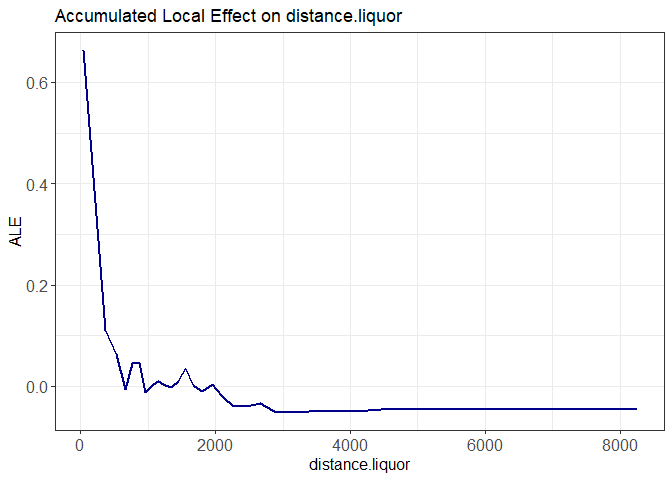
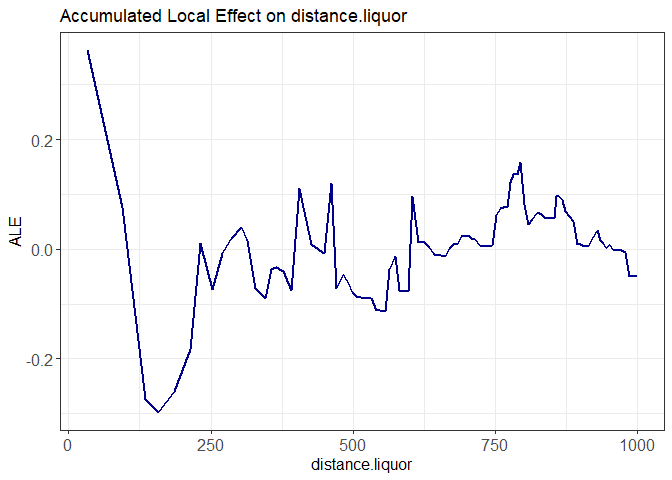
Readme updates

diff --git a/README.md b/README.md
@@ -23,7 +23,7 @@ features are planned for the future, including:
 
 -   ~~Predictive Accuracy Index (PAI) calculation~~
 -   GoogleMaps & OpenStreet Maps integration
--   Grid count and polygon-level predictors
+-   ~~Grid count~~ and polygon-level predictors
 -   Shapely value decomposition
 -   and more…!
 
@@ -207,13 +207,13 @@ head(gbm_fit$model_dataframe)
 #> 21        2177.169     2510.220          3613.967            1994.225
 #> 22        1986.044     2339.894          3511.932            1802.244
 #> 23        1796.853     2174.627          3418.562            1612.213
-#>       gbm.pred                       geometry
-#> 18 0.009015617 POLYGON ((1012120 854990.8,...
-#> 19 0.003779165 POLYGON ((1012320 854990.8,...
-#> 20 0.021006990 POLYGON ((1012520 854990.8,...
-#> 21 0.009862104 POLYGON ((1012720 854990.8,...
-#> 22 0.007123667 POLYGON ((1012920 854990.8,...
-#> 23 0.002528116 POLYGON ((1013120 854990.8,...
+#>        gbm.pred                       geometry
+#> 18 0.0101637170 POLYGON ((1012120 854990.8,...
+#> 19 0.0073781023 POLYGON ((1012320 854990.8,...
+#> 20 0.0050794818 POLYGON ((1012520 854990.8,...
+#> 21 0.0005178818 POLYGON ((1012720 854990.8,...
+#> 22 0.0056917397 POLYGON ((1012920 854990.8,...
+#> 23 0.0024086121 POLYGON ((1013120 854990.8,...
 ```
 
 ## Plotting Functions
@@ -261,7 +261,8 @@ variable. For example, if we wanted to know the effect of liquor stores
 on robberies up to any distance, we can calculate it using the
 `plot_ale` function. Here it looks like the effect is highly localized,
 with the effect decaying rapidly as distance from a liquor store
-increases.
+increases. The maximum distance can be adjusted, but is only shown up to
+a reasonable 1,000 feet here.
 
 ``` r
 plot_ale(gbm_fit, 'distance.liquor')
@@ -315,6 +316,8 @@ from your model:
     predicted by the model to the number of observed crimes. Values
     above one imply more crimes are predicted than observed, while
     values below one imply fewer crimes are predicted than observed.
+    Note, this is only valid if the training period is roughly
+    equivalent to the testing period.
 
 ### `outcome_eval`
 
@@ -329,13 +332,13 @@ outcome_eval(model_fit = gbm_fit,
              test_data = robbery_test,
              eval = c("pai","pei","rri"))
 #>   PAI   PEI   RRI 
-#> 18.73  0.31  6.10
+#> 19.10  0.31  5.95
 ```
 
 ### `plot_eval`
 
 There is also the option to plot evaluations across a range of hotspot
-values. This helps to identify the performace of the model conditional
+values. This helps to identify the performance of the model conditional
 on different hot spot cutoffs. The `plot_eval` function can plot any of
 the three metrics across any range of values. The default is 0.1% to 1%.
 
